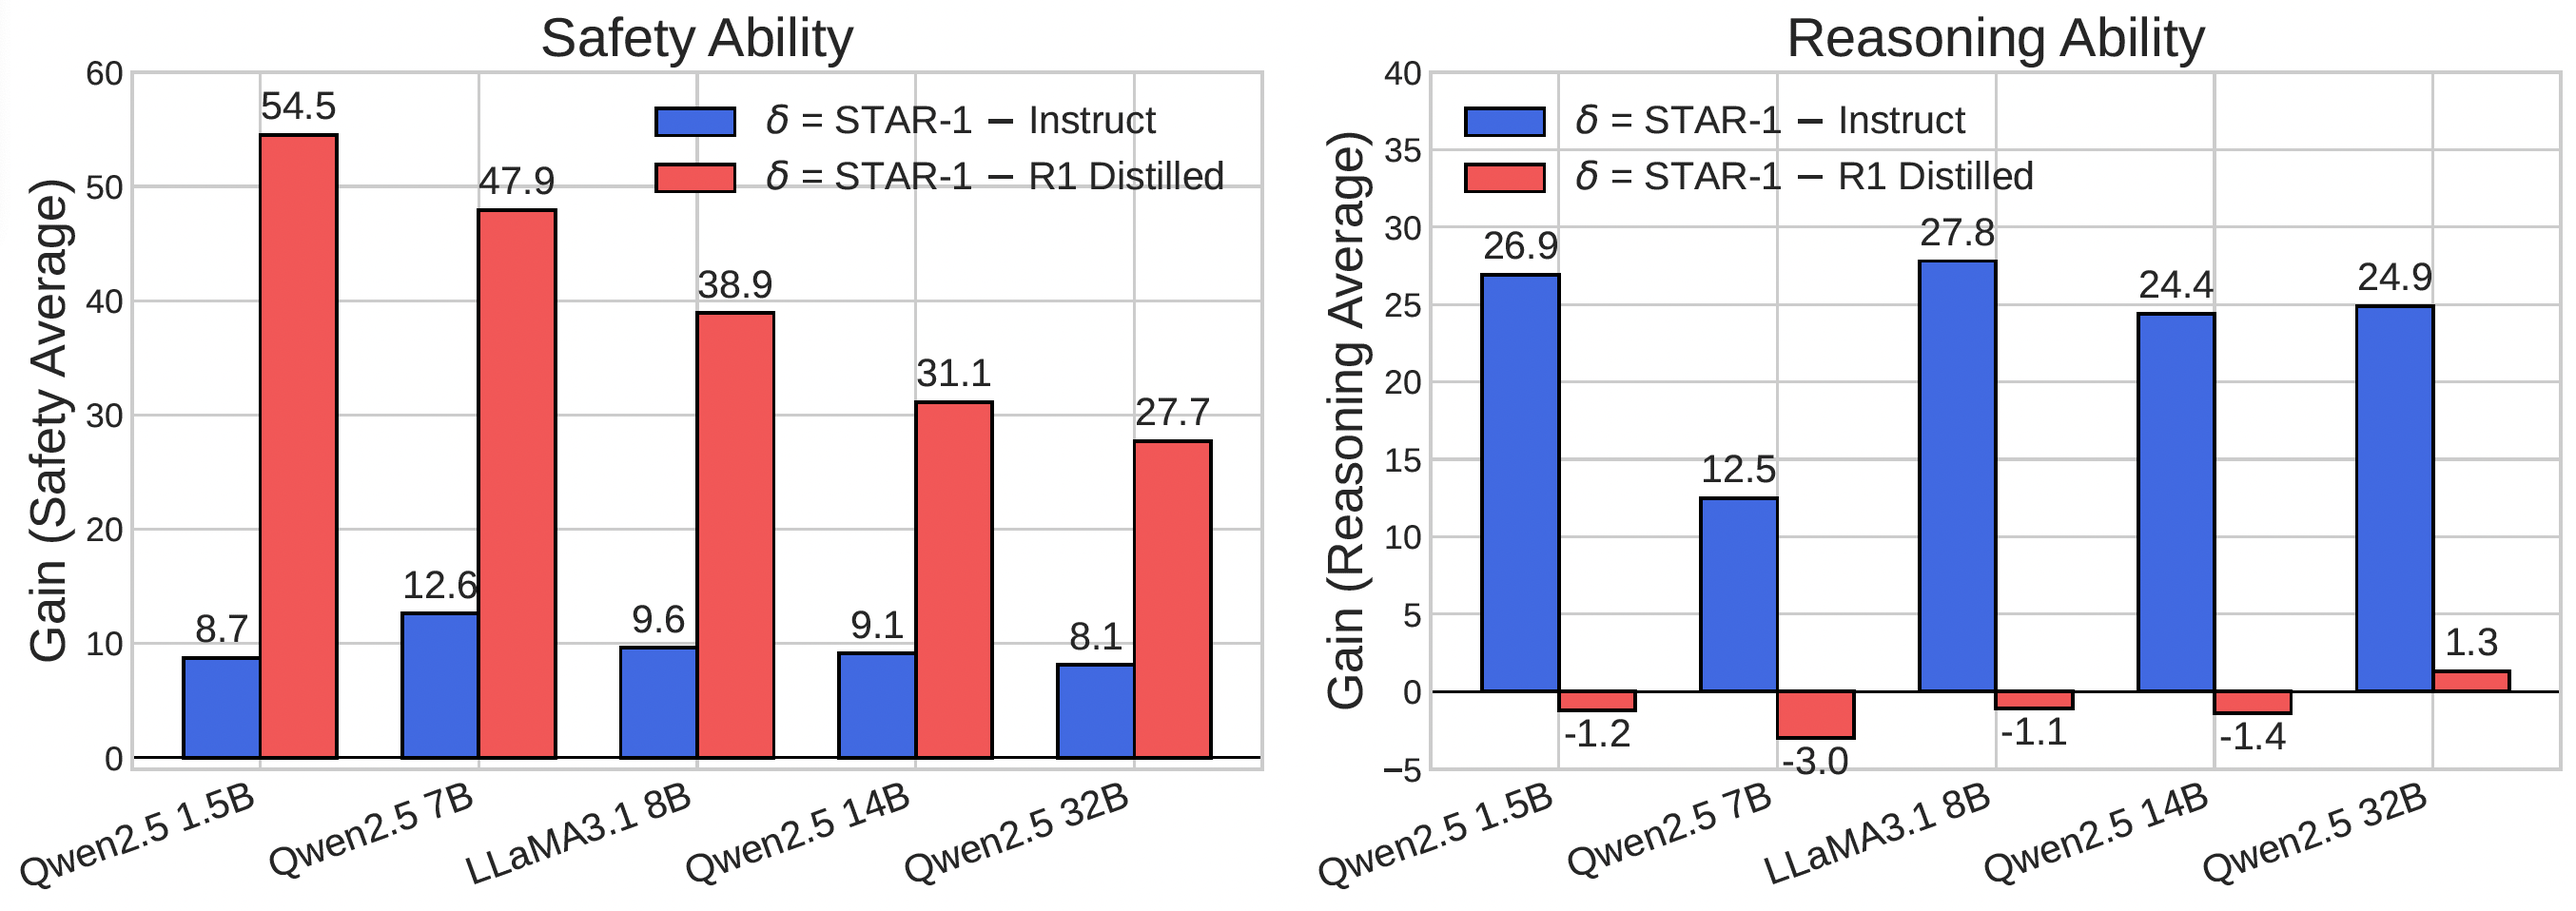
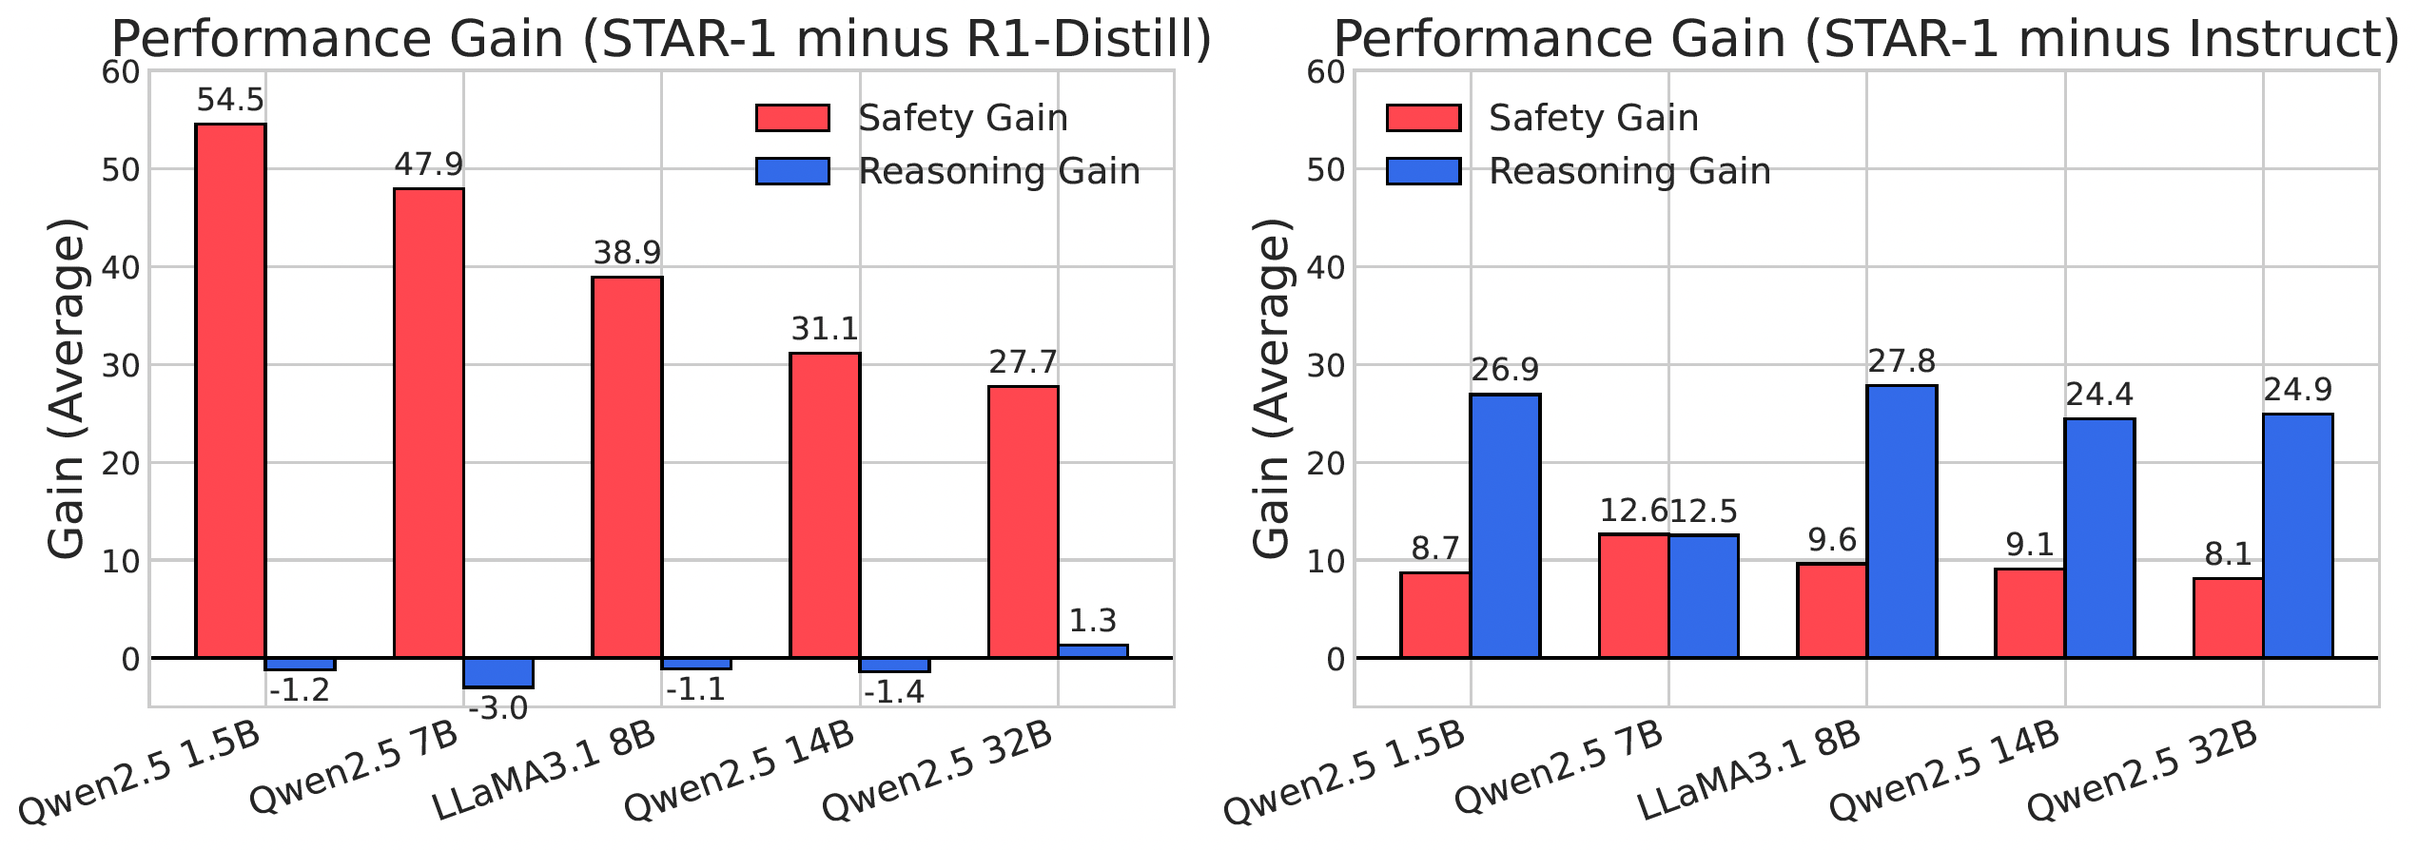
[fix] update figure1

diff --git a/STAR-1/index.html b/STAR-1/index.html
@@ -173,7 +173,7 @@
           <center><img class="center" src="./resources/main_gain.jpg" width="80%"></center>
           
           <div class="content has-text-justified">
-            <p><strong>Figure 1.</strong> The average performance gap between (1) model trained on STAR-1 and Instruct model (<font color="#4169e1">blue</font>); (2) model trained on STAR-1 and the R1-distilled model (<font color="#f15757">red</font>) on both safety and reasoning tasks across five model types. We observe that:</p>
+            <p><strong>Figure 1.</strong> Average performance gain of STAR-1 fine-tuned models (based on R1-Distill) over <strong>R1-Distill models (<em>left</em>)</strong> and <strong>safety-trained Instruct models (<em>right</em>)</strong> on safety and reasoning tasks across five model types. We observe that:</p>
             <!-- <p><strong>Experimental Settings:</strong></p>
             <ul>
               <li> Generator: GPT-4o
